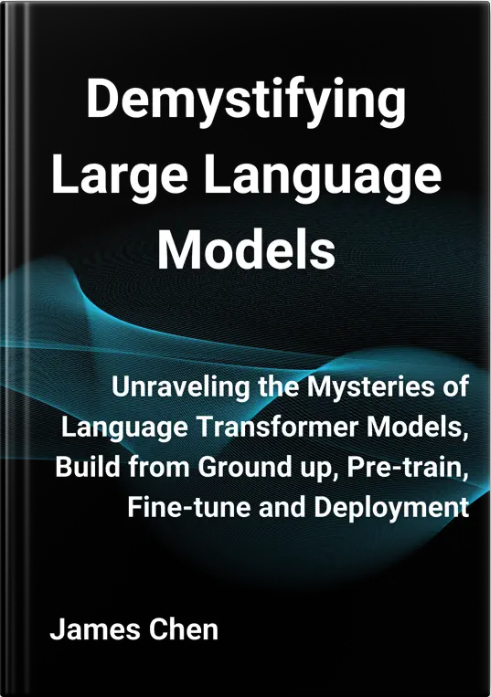
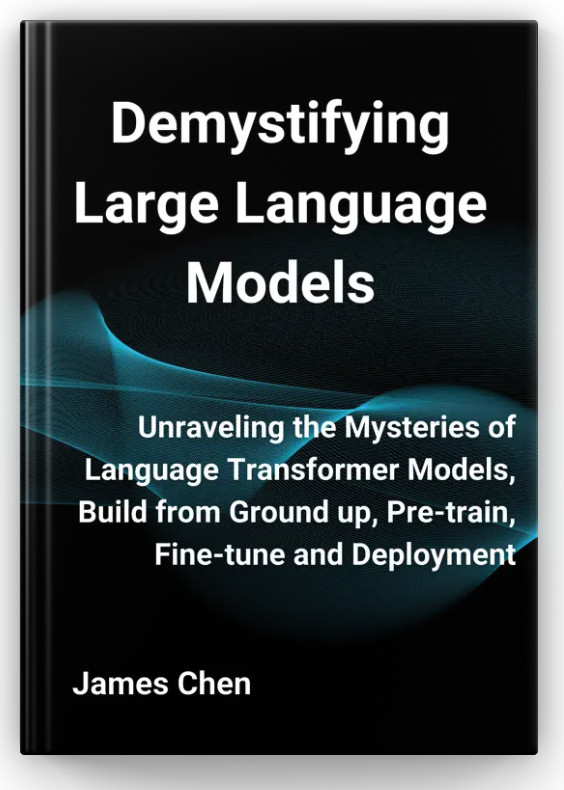
update book cover image

diff --git a/README.md b/README.md
@@ -3,7 +3,7 @@
 This repository contains the source code and accompanying materials for the book "Demystifying Large Language Models" by James Chen. The book is a comprehensive guide to understanding Large Language Models (LLMs), their underlying architectures, pre-training and fine-tuning techniques, and various applications.
 
 <picture>
-  <img alt="Demystifying Large Language Models" src="https://github.com/jchen8000/DemystifyingLLMs/blob/main/images/bookcover.jpg" width="164" height="232">
+  <img alt="Demystifying Large Language Models" src="https://github.com/jchen8000/DemystifyingLLMs/blob/main/images/bookcover.jpg" width="141" height="198">
 </picture>
 
 **Title: Demystifying Large Language Models**
